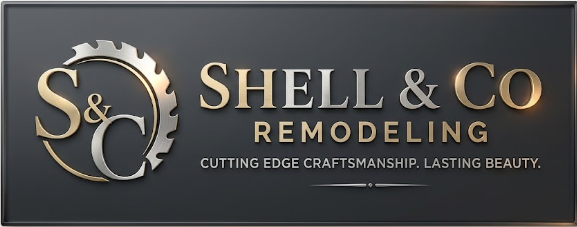
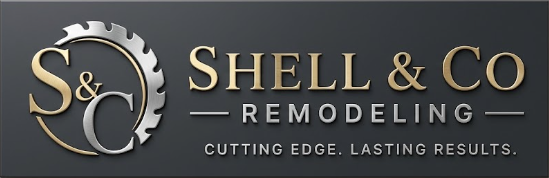
feat(brand): install founder-approved navigation header
Replace the public navigation artwork with the exact founder-supplied header while preserving responsive layout and link behavior.

diff --git a/our-work.html b/our-work.html
@@ -42,7 +42,7 @@
 <div class="prototype-bar">Portfolio Update in Progress • Documented Project Scopes</div>
 <div class="contact-bar">Shell &amp; Co Remodeling &nbsp;•&nbsp; <a href="tel:+15023032398">(502) 303-2398</a> &nbsp;•&nbsp; <a href="sms:+15023032398">Text Us</a> &nbsp;•&nbsp; Kentuckiana &nbsp;•&nbsp; Calls 9 AM–5 PM</div>
 <header class="site-header"><div class="wrap nav">
-<a class="brand" href="index.html#top"><img class="brand-logo brand-logo-horizontal" src="assets/brand/shellco-nav-header.png" alt="Shell & Co Remodeling — Cutting Edge Craftsmanship. Lasting Beauty."></a>
+<a class="brand" href="index.html#top"><img class="brand-logo brand-logo-horizontal" src="assets/brand/shellco-nav-header.png" alt="Shell & Co Remodeling — Cutting Edge. Lasting Results."></a>
 <nav class="nav-links" aria-label="Primary"><a href="index.html#studio">Remodel Studio</a><a href="our-work.html" aria-current="page">Our Work</a><a href="index.html#services">Services</a><a href="index.html#process">Process</a><a href="index.html#estimate">Estimate</a></nav>
 <details class="mobile-menu"><summary>Menu</summary><nav aria-label="Mobile primary"><a href="index.html#services">Services</a><a href="our-work.html" aria-current="page">Our Work</a><a href="index.html#process">Process</a><a href="index.html#studio">Studio — Coming Soon</a><a href="index.html#estimate">Project Inquiry</a></nav></details>
 <a class="button" href="index.html#estimate">Project Inquiry</a>

diff --git a/index.html b/index.html
@@ -60,7 +60,7 @@
 <div class="prototype-bar">Now Accepting Nonbinding Project Inquiries</div>
 <div class="contact-bar">Shell &amp; Co Remodeling &nbsp;•&nbsp; <a href="tel:+15023032398">(502) 303-2398</a> &nbsp;•&nbsp; <a href="sms:+15023032398">Text Us</a> &nbsp;•&nbsp; Kentuckiana &nbsp;•&nbsp; Calls 9 AM–5 PM</div>
 <header class="site-header"><div class="wrap nav">
-<a class="brand" href="#top"><img class="brand-logo brand-logo-horizontal" src="assets/brand/shellco-nav-header.png" alt="Shell & Co Remodeling — Cutting Edge Craftsmanship. Lasting Beauty."></a>
+<a class="brand" href="#top"><img class="brand-logo brand-logo-horizontal" src="assets/brand/shellco-nav-header.png" alt="Shell & Co Remodeling — Cutting Edge. Lasting Results."></a>
 <nav class="nav-links" aria-label="Primary"><a href="#studio">Remodel Studio</a><a href="our-work.html">Our Work</a><a href="#services">Services</a><a href="#process">Process</a><a href="#estimate">Estimate</a></nav>
 <details class="mobile-menu"><summary>Menu</summary><nav aria-label="Mobile primary"><a href="#services">Services</a><a href="our-work.html">Our Work</a><a href="#process">Process</a><a href="#studio">Studio — Coming Soon</a><a href="#estimate">Project Inquiry</a></nav></details>
 <a class="button" href="#estimate">Project Inquiry</a>
